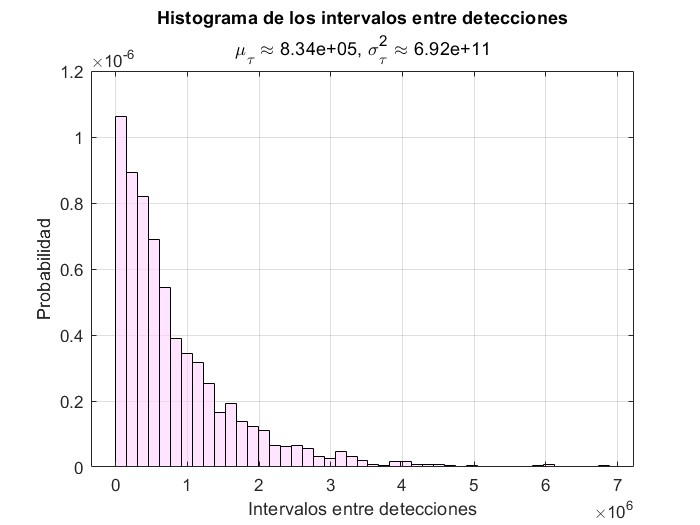
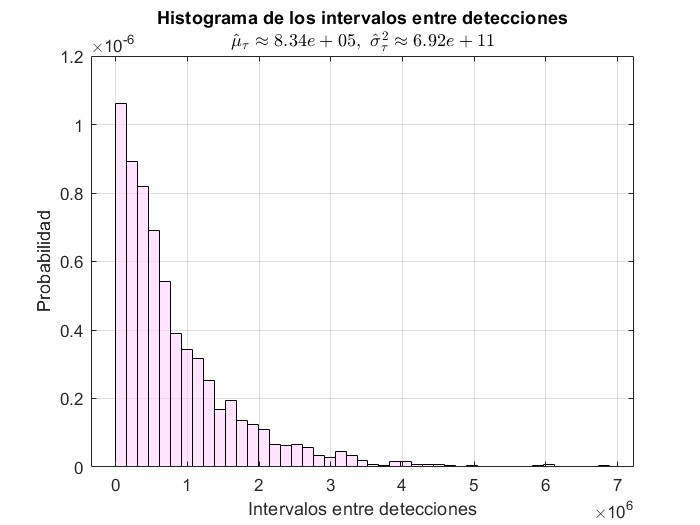
sombreritos de 1b y 2b

diff --git a/TP2/ej2.m b/TP2/ej2.m
@@ -36,7 +36,7 @@ bines = ceil(sqrt(M));
 figure(1);
 histogram(eventos, bines, 'Normalization', 'probability', 'EdgeColor', '#020122', 'FaceColor', '#84BC9C');
 title('Histograma de eventos detectados por intervalo');
-subtitle(sprintf('\\mu_{N(t)} \\approx %.2f, \\sigma^{2}_{N(t)} \\approx %.2f', mu_Nt, var_Nt));
+subtitle(sprintf('$\\hat{\\mu}_{N(t)} \\approx %.2f, \\hat{\\sigma}^2_{N(t)} \\approx %.2f$', mu_Nt, var_Nt), 'Interpreter', 'latex');
 xlabel('Número de eventos por intervalo');
 ylabel('Probabilidad');
 legend('Histograma');

diff --git a/TP2/ej1.m b/TP2/ej1.m
@@ -27,7 +27,7 @@ bines = ceil(sqrt(largo_total));
 figure(1);
 histogram(tau, bines, 'Normalization', 'pdf', 'FaceColor', '#ffd0ff');
 title('Histograma de los intervalos entre detecciones');
-subtitle(sprintf('\\mu_{\\tau} \\approx %.2e, \\sigma^{2}_{\\tau} \\approx %.2e', esperanza_tau, varianza_tau));
+subtitle(sprintf('$\\hat{\\mu}_{\\tau} \\approx %.2e, ~ \\hat{\\sigma}^2_{\\tau} \\approx %.2e$', esperanza_tau, varianza_tau), 'Interpreter', 'latex');
 xlabel('Intervalos entre detecciones');
 ylabel('Probabilidad');
 grid on;
